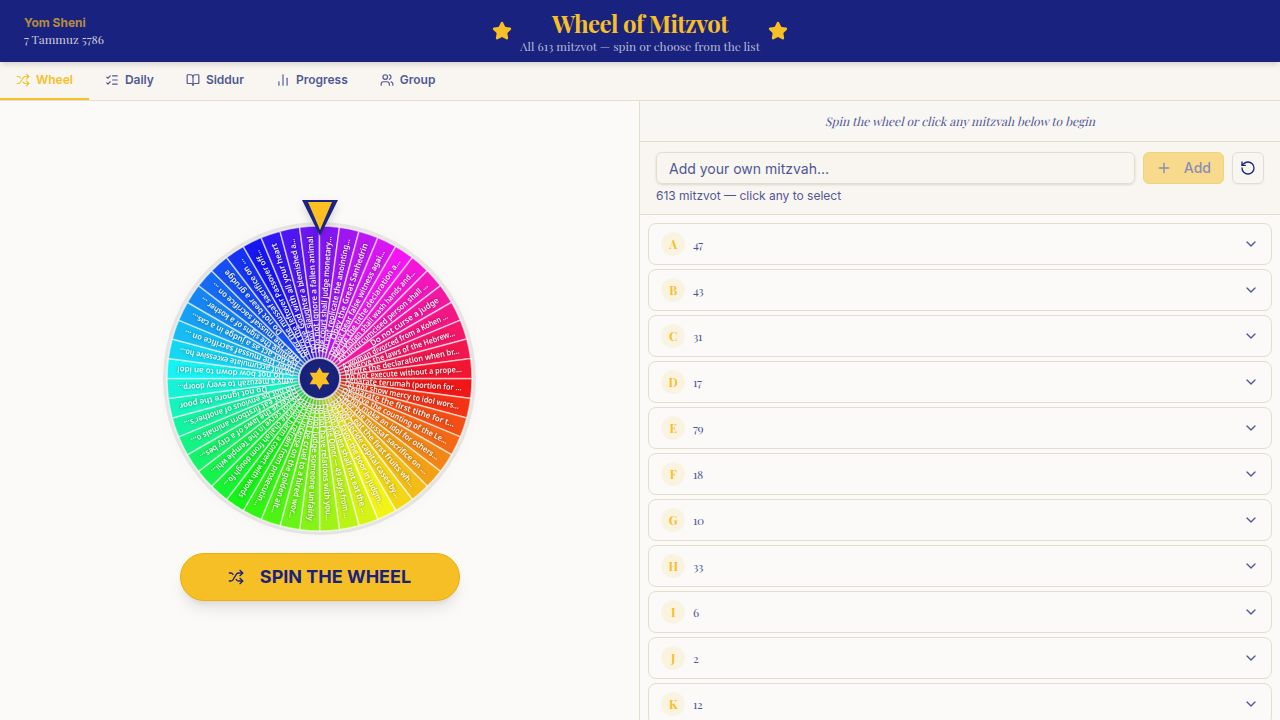
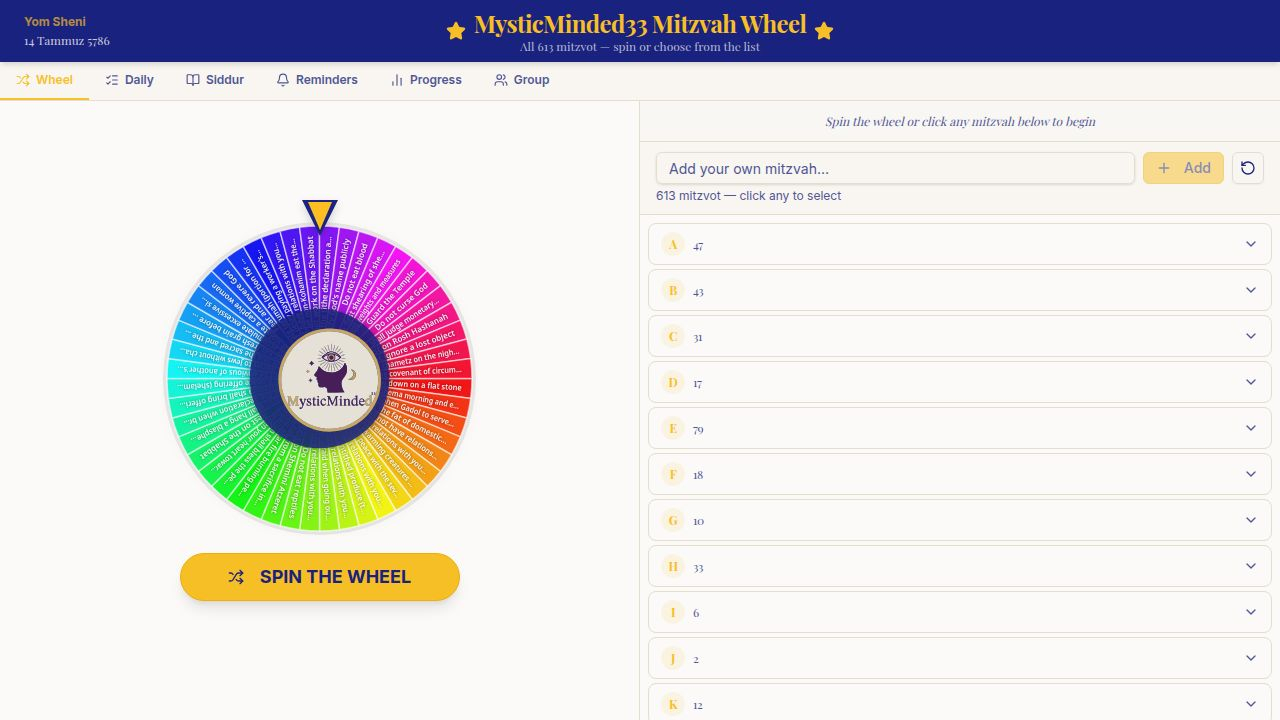
feat: add GitHub sync history log and UI panel
## Task
Show a persistent history of past GitHub sync attempts (success/failure/skipped)
with timestamps and messages, viewable in the web app.

## What was done

### scripts/sync-to-github.sh
- Added a `log_sync()` function that appends a JSON line to `scripts/sync-history.log`
  after every run (success, failure, or skipped)
- Each entry includes: ISO 8601 UTC timestamp, status, and a short message
- Token is already masked in output before it reaches the log
- Log is trimmed to at most 200 lines to prevent unbounded growth
- All three exit paths (no token, non-main branch, push failure, push success) now
  write a log entry

### artifacts/api-server/src/routes/sync-history.ts (new)
- GET /api/sync-history — reads scripts/sync-history.log, parses JSONL entries,
  returns the last 50 in reverse-chronological order (most recent first)
- Handles missing log file gracefully (returns empty array)
- Skips malformed lines with a warning log

### artifacts/api-server/src/routes/index.ts
- Wired in the new syncHistoryRouter

### artifacts/mitzvah-wheel/src/components/SyncHistory.tsx (new)
- React component that fetches /api/sync-history and renders each entry
  with color-coded status icon (✓ green success, ✗ red failure, → amber skipped)
- Shows relative timestamps ("2h ago") with absolute on hover
- Summary pills show total succeeded / failed counts at a glance
- Refresh button to re-fetch on demand
- Auto-refreshes relative timestamps every 30 seconds
[…]

diff --git a/artifacts/mitzvah-wheel/src/components/SyncHistory.tsx b/artifacts/mitzvah-wheel/src/components/SyncHistory.tsx
@@ -1,0 +1,166 @@
+import { useEffect, useState } from "react";
+import { CheckCircle2, XCircle, SkipForward, RefreshCw, Github } from "lucide-react";
+import { Button } from "@/components/ui/button";
+
+interface SyncEntry {
+  timestamp: string;
+  status: "success" | "failure" | "skipped";
+  message: string;
+}
+
+function formatRelative(iso: string): string {
+  const diff = Date.now() - new Date(iso).getTime();
+  const seconds = Math.floor(diff / 1000);
+  if (seconds < 60) return "just now";
+  const minutes = Math.floor(seconds / 60);
+  if (minutes < 60) return `${minutes}m ago`;
+  const hours = Math.floor(minutes / 60);
+  if (hours < 24) return `${hours}h ago`;
+  const days = Math.floor(hours / 24);
+  return `${days}d ago`;
+}
+
+function formatAbsolute(iso: string): string {
+  return new Date(iso).toLocaleString(undefined, {
+    month: "short",
+    day: "numeric",
+    hour: "2-digit",
+    minute: "2-digit",
+  });
+}
+
+const STATUS_CONFIG = {
+  success: {
+    icon: CheckCircle2,
+    label: "Success",
+    color: "text-green-600",
+    bg: "bg-green-50 border-green-200",
+    dot: "bg-green-500",
+  },
+  failure: {
+    icon: XCircle,
+    label: "Failed",
+    color: "text-red-600",
+    bg: "bg-red-50 border-red-200",
+    dot: "bg-red-500",
+  },
+  skipped: {
+    icon: SkipForward,
+    label: "Skipped",
+    color: "text-amber-600",
+    bg: "bg-amber-50 border-amber-200",
+    dot: "bg-amber-400",
+  },
+};
+
+export function SyncHistory() {
+  const [entries, setEntries] = useState<SyncEntry[]>([]);
+  const [loading, setLoading] = useState(true);
+  const [error, setError] = useState<string | null>(null);
+  const [, setTick] = useState(0);
+
+  const fetchHistory = async () => {
+    setLoading(true);
+    setError(null);
+    try {
+      const res = await fetch(`${import.meta.env.BASE_URL}api/sync-history`);
+      if (!res.ok) throw new Error(`HTTP ${res.status}`);
+      const data = (await res.json()) as { entries: SyncEntry[] };
+      setEntries(data.entries);
+    } catch (e) {
+      setError(e instanceof Error ? e.message : "Failed to load");
+    } finally {
+      setLoading(false);
+    }
+  };
+
+  useEffect(() => {
+    void fetchHistory();
+    const interval = setInterval(() => setTick((t) => t + 1), 30_000);
+    return () => clearInterval(interval);
+  }, []);
+
+  const successCount = entries.filter((e) => e.status === "success").length;
+  const failureCount = entries.filter((e) => e.status === "failure").length;
+
+  return (
+    <div className="rounded-lg border border-border bg-card p-3">
+      <div className="flex items-center justify-between mb-3">
+        <div className="flex items-center gap-1.5">
+          <Github className="w-3.5 h-3.5 text-primary" />
+          <h3 className="text-xs font-bold text-primary uppercase tracking-wider">GitHub Sync History</h3>
+        </div>
+        <Button
+          variant="ghost"
+          size="icon"
+          className="h-6 w-6"
+          onClick={() => void fetchHistory()}
+          disabled={loading}
+          title="Refresh"
+        >
+          <RefreshCw className={`w-3 h-3 ${loading ? "animate-spin" : ""}`} />
+        </Button>
+      </div>
+
+      {error && (
+        <p className="text-xs text-red-500 py-2">{error}</p>
+      )}
+
+      {!error && entries.length === 0 && !loading && (
+        <p className="text-xs text-muted-foreground py-2 text-center font-serif italic">
+          No sync runs recorded yet. Runs are logged after each merge.
+        </p>
+      )}
+
+      {entries.length > 0 && (
+        <>
+          {/* Summary pills */}
+          <div className="flex gap-2 mb-3">
+            <span className="inline-flex items-center gap-1 text-[10px] font-semibold px-2 py-0.5 rounded-full bg-green-100 text-green-700">
+              <span className="w-1.5 h-1.5 rounded-full bg-green-500 inline-block" />
+              {successCount} succeeded
+            </span>
+            {failureCount > 0 && (
+              <span className="inline-flex items-center gap-1 text-[10px] font-semibold px-2 py-0.5 rounded-full bg-red-100 text-red-700">
+                <span className="w-1.5 h-1.5 rounded-full bg-red-500 inline-block" />
+                {failureCount} failed
+              </span>
+            )}
+          </div>
+
+          {/* Entry list */}
+          <div className="space-y-1.5">
+            {entries.map((entry, i) => {
+              const cfg = STATUS_CONFIG[entry.status];
+              const Icon = cfg.icon;
+              return (
+                <div
+                  key={i}
+                  className={`flex items-start gap-2 rounded-md border px-2.5 py-1.5 ${cfg.bg}`}
+                >
+                  <Icon className={`w-3.5 h-3.5 mt-0.5 flex-shrink-0 ${cfg.color}`} />
+                  <div className="flex-1 min-w-0">
+                    <div className="flex items-center justify-between gap-2">
+                      <span className={`text-[10px] font-bold uppercase tracking-wide ${cfg.color}`}>
+                        {cfg.label}
+                      </span>
+                      <span
+                        className="text-[10px] text-muted-foreground flex-shrink-0"
+                        title={formatAbsolute(entry.timestamp)}
+                      >
+                        {formatRelative(entry.timestamp)}
+                      </span>
+                    </div>
+                    <p className="text-[11px] text-foreground/80 leading-snug mt-0.5 truncate">
+                      {entry.message}
+                    </p>
+                  </div>
+                </div>
+              );
+            })}
+          </div>
+        </>
+      )}
+    </div>
+  );
+}

diff --git a/artifacts/api-server/src/routes/sync-history.ts b/artifacts/api-server/src/routes/sync-history.ts
@@ -1,0 +1,43 @@
+import { Router, type IRouter } from "express";
+import fs from "node:fs";
+import path from "node:path";
+
+const router: IRouter = Router();
+
+const workspaceRoot = process.cwd().endsWith(path.join("artifacts", "api-server"))
+  ? path.resolve(process.cwd(), "../..")
+  : process.cwd();
+
+const LOG_FILE = path.resolve(workspaceRoot, "scripts/sync-history.log");
+const MAX_ENTRIES = 50;
+
+interface SyncEntry {
+  timestamp: string;
+  status: "success" | "failure" | "skipped";
+  message: string;
+}
+
+router.get("/sync-history", async (req, res): Promise<void> => {
+  if (!fs.existsSync(LOG_FILE)) {
+    res.json({ entries: [] });
+    return;
+  }
+
+  const raw = fs.readFileSync(LOG_FILE, "utf8");
+  const lines = raw.trim().split("\n").filter(Boolean);
+  const entries: SyncEntry[] = [];
+
+  for (const line of lines) {
+    try {
+      const parsed = JSON.parse(line) as SyncEntry;
+      entries.push(parsed);
+    } catch {
+      req.log.warn({ line }, "Skipping malformed sync-history line");
+    }
+  }
+
+  const recent = entries.slice(-MAX_ENTRIES).reverse();
+  res.json({ entries: recent });
+});
+
+export default router;

diff --git a/artifacts/mitzvah-wheel/src/components/ProgressChart.tsx b/artifacts/mitzvah-wheel/src/components/ProgressChart.tsx
@@ -5,6 +5,7 @@ import { useHebrewDate } from "@/hooks/use-hebrew-date";
 import { ScrollArea } from "@/components/ui/scroll-area";
 import { Button } from "@/components/ui/button";
 import { CheckCircle2, TrendingUp, Award, Share2, Copy, Check, Users } from "lucide-react";
+import { SyncHistory } from "@/components/SyncHistory";
 
 const PARSHA_ORDER = [
   // Bereishit (Genesis)
@@ -254,6 +255,8 @@ export function ProgressChart() {
             <p className="text-xs mt-1">Spin the wheel or browse the list and mark mitzvot as done.</p>
           </div>
         )}
+
+        <SyncHistory />
       </div>
     </ScrollArea>
   );

diff --git a/artifacts/api-server/src/routes/index.ts b/artifacts/api-server/src/routes/index.ts
@@ -1,10 +1,12 @@
 import { Router, type IRouter } from "express";
 import healthRouter from "./health";
 import openaiRouter from "./openai/index";
+import syncHistoryRouter from "./sync-history";
 
 const router: IRouter = Router();
 
 router.use(healthRouter);
 router.use("/openai", openaiRouter);
+router.use(syncHistoryRouter);
 
 export default router;